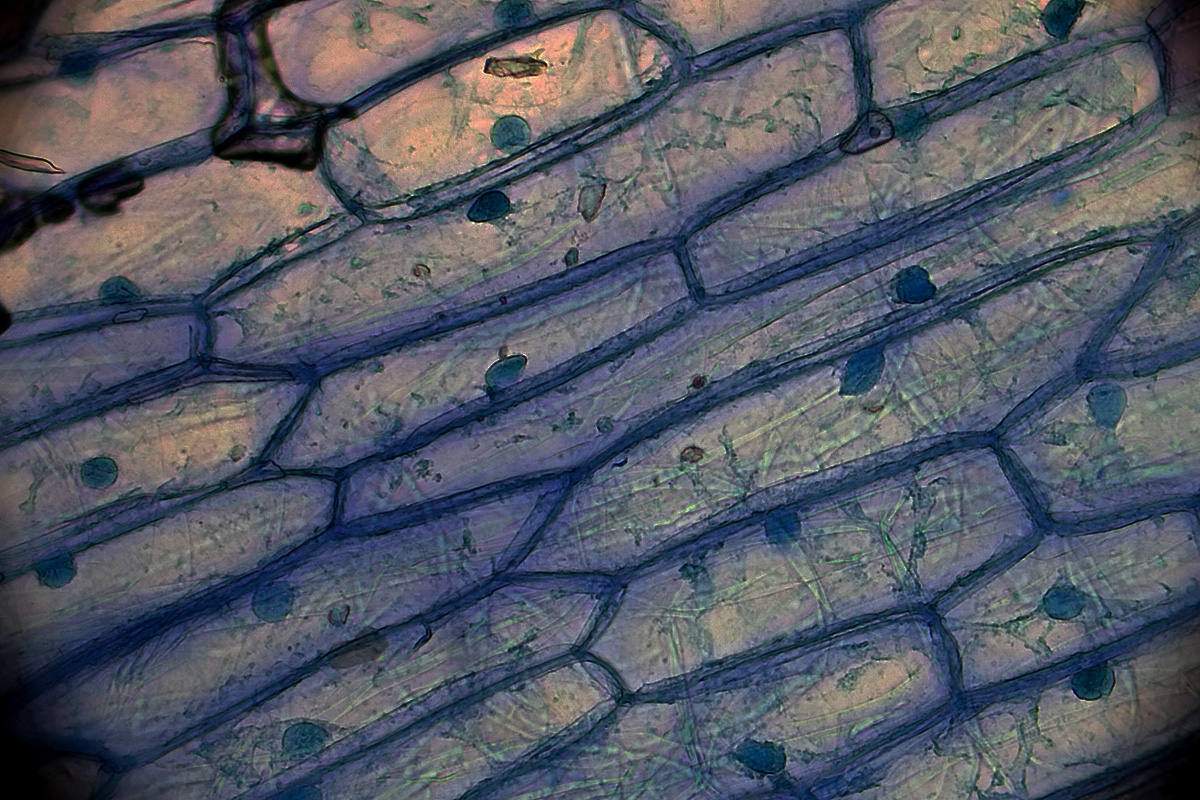
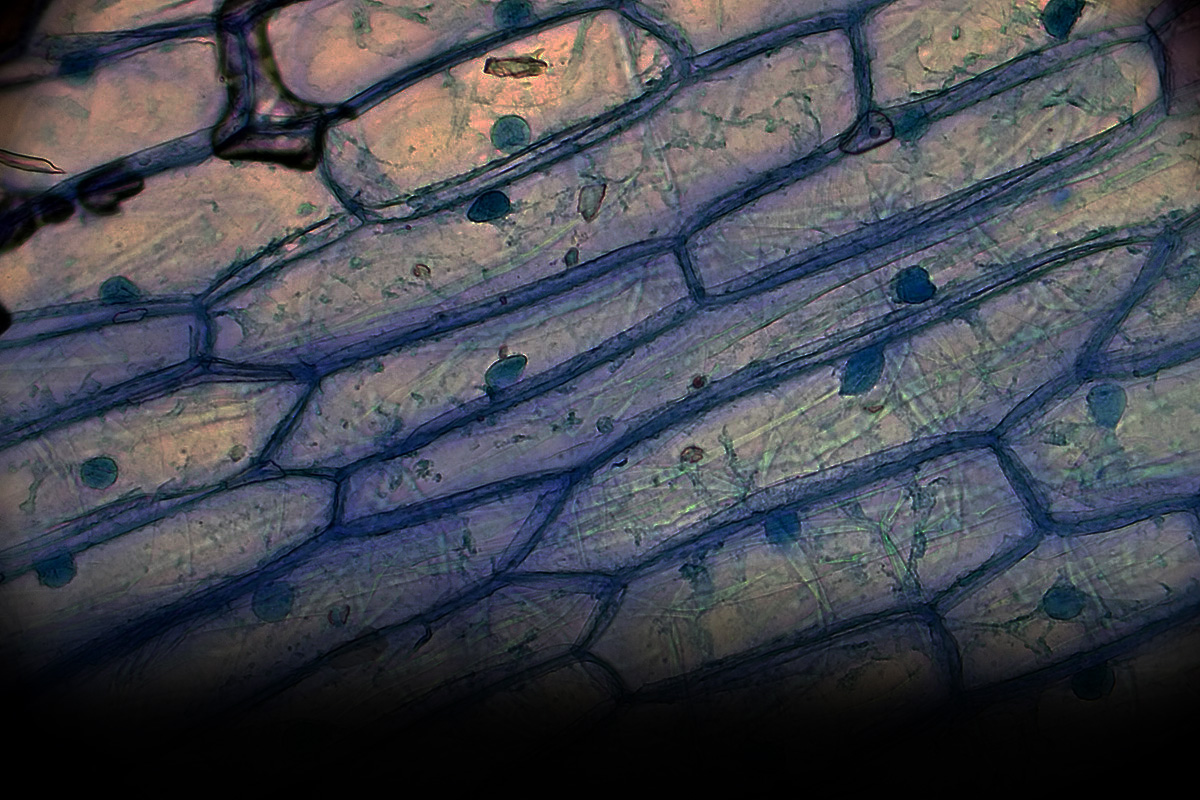
darkened header image

Changed region(s): [[0.0, 0.7188, 1.0, 1.0]]

diff --git a/index.html b/index.html
@@ -21,7 +21,7 @@
 
 		<style>
 		body {
-			background-color: #68698f;
+			background-color: #000000;
 		}
 		</style>
 	</head>
